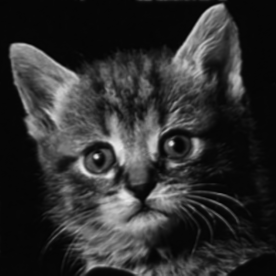
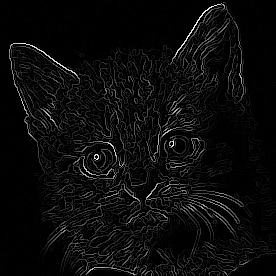
import canny on web app

diff --git a/client/src/App.svelte b/client/src/App.svelte
@@ -25,6 +25,11 @@
     guidedObj = {
       radius: 8,
       eps: 0.16
+    },
+    cannyObj = {
+      kernelDim: 3,
+      lower_th: 0.1,
+      higher_th: 0.8
     }
   
   function isUploaded() {
@@ -186,6 +191,33 @@
 
   }
 
+  function canny(){
+    if(cannyObj.kernelDim < 3 || cannyObj.lower_th < 0.1 || cannyObj.higher_th < 0.2){
+      alert("Valore minimo per la dimensione della finestra è 3, per il lower threhsold 0.1 e per l'higher threhsold 0.2")
+    } else {
+      if(isUploaded()){
+        loading = true;
+        fetch("./canny", {
+          method: 'post',
+          headers: {
+            'Content-type': 'application/json'
+          },
+          body: JSON.stringify({
+            kernel_dim: cannyObj.kernelDim,
+            lower_threshold: cannyObj.lower_th,
+            higher_threshold: cannyObj.higher_th
+          })
+        })
+          .then(response => response.blob())
+          .then(blob => {
+            loading = false;
+            processedImage = URL.createObjectURL(blob)
+            filterName = "canny"
+          })
+      }
+    }
+  }
+
   function psnr(){
     if(isUploaded()){
       fetch("./psnr", {
@@ -317,6 +349,33 @@
         </div>
       </td>
       <td><button on:click={guided} class="btn btn-warning">Applica</button></td>
+    </tr>
+
+    <tr>
+      <th scope="row">Canny edge detection</th>
+      <td>
+        <div class="row g-2">
+          <div class="col-md">
+            <div class="form-floating">
+              <input type="number" class="form-control" id="kernel_dimension_canny" bind:value={cannyObj.kernelDim}>
+              <label for="kernel_dimension_canny">Dimensione kernel smoothing</label>
+            </div>
+          </div>
+          <div class="col-md">
+            <div class="form-floating">
+              <input type="number" class="form-control" id="lower_th_canny" bind:value={cannyObj.lower_th}>
+              <label for="lower_th_canny">Lower thresholding</label>
+            </div>
+          </div>
+          <div class="col-md">
+            <div class="form-floating">
+              <input type="number" class="form-control" id="higher_th_canny" bind:value={cannyObj.higher_th}>
+              <label for="higher_th_canny">Higher thresholding</label>
+            </div>
+          </div>
+        </div>
+      </td>
+      <td><button on:click={canny} class="btn btn-warning">Applica</button></td>
     </tr>
 
     

diff --git a/server.py b/server.py
@@ -9,7 +9,7 @@ from libs.algorithms.remove_noise import remove_noise
 from libs.algorithms.bilateral import bilateral_filter
 from libs.algorithms.guided import guided_filter
 from libs.algorithms.psnr import PSNR
-
+from libs.algorithms.canny import canny
 from libs.utils import getSourceImg, getI420FromBase64
 
 app = Flask(__name__)
@@ -50,7 +50,7 @@ def send_image(filename):
 
 
 @app.route("/mean", methods=["POST"])
-def mean():
+def mean_route():
 
     req = request.get_json()
 
@@ -59,7 +59,7 @@ def mean():
     return send_image(new_filename)
 
 @app.route("/median", methods=["POST"])
-def median():
+def median_route():
 
     req = request.get_json() # dict type
 
@@ -69,7 +69,7 @@ def median():
     return send_image(new_filename)
 
 @app.route("/bilateral", methods=["POST"])
-def bilateral():
+def bilateral_route():
 
     req = request.get_json()
 
@@ -82,7 +82,7 @@ def bilateral():
     return send_image(new_filename)
 
 @app.route("/guided", methods=["POST"])
-def guided():
+def guided_route():
     req = request.get_json()
 
     radius = req['radius']
@@ -93,8 +93,21 @@ def guided():
 
     return send_image(new_filename)
 
+@app.route("/canny", methods=["POST"])
+def canny_route():
+    req = request.get_json()
+
+    kernel_dim = req['kernel_dim']
+    low_th = req['lower_threshold']
+    high_th = req['higher_threshold']
+
+    result = canny(targetUpload + 'uploaded.png', kernel_dim, low_th , high_th)
+    imageio.imwrite(target + '/' + new_filename, result) 
+
+    return send_image(new_filename)
+
 @app.route("/psnr", methods=["GET"])
-def psnr():
+def psnr_route():
     return str(PSNR(targetUpload + 'uploaded.png', targetUpload + 'processed.png'))
 
 

diff --git a/libs/algorithms/canny.py b/libs/algorithms/canny.py
@@ -77,8 +77,8 @@ def canny(path, kernel_dim, lower_threshold, higher_threshold):
     return magnitude    ## magnitude of gradients of edges
    
 
-def main():
-    canny = canny('../../static/images/cat.bmp', 5, 0.1, 0.9)
-    cv2.imwrite('../../static/images/processed.png', canny)
+# def main():
+#     canny = canny('../../static/images/cat.bmp', 5, 0.1, 0.9)
+#     cv2.imwrite('../../static/images/processed.png', canny)
     
-main()
+# main()
